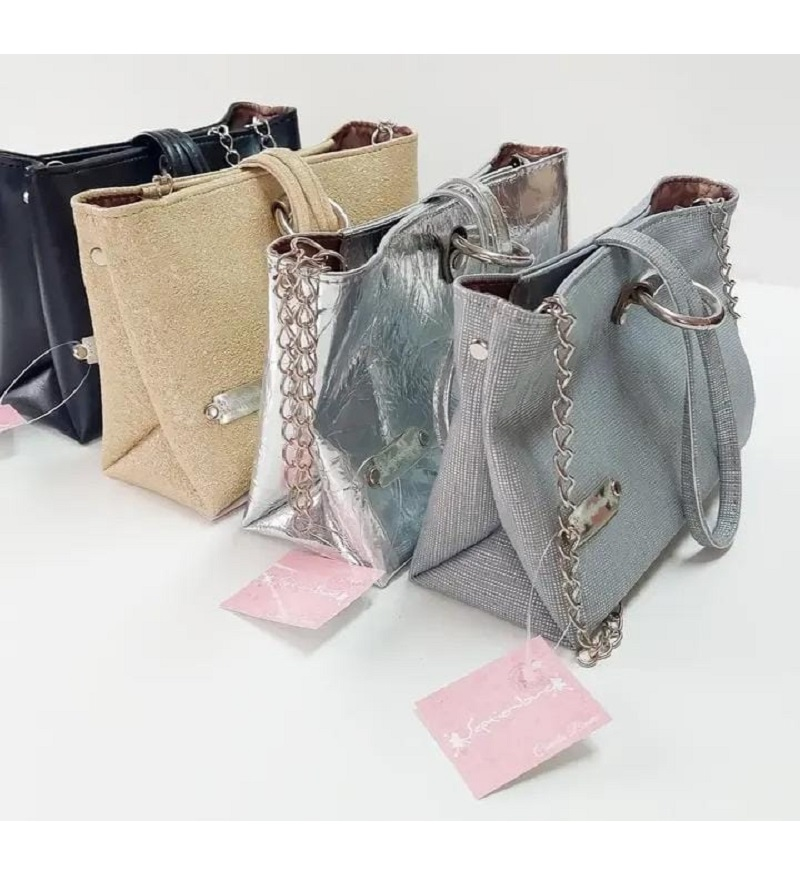
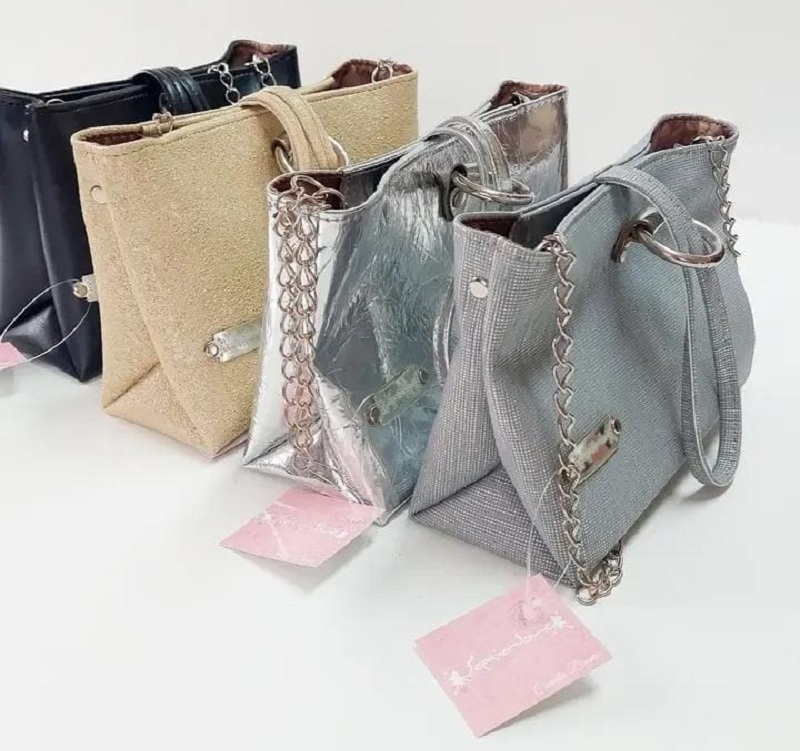
adjust images

diff --git a/catalog.js b/catalog.js
@@ -35,15 +35,14 @@ export function renderAllCatalogs() {
 }
 
 // ── Carruseles generales ──────────────────────────────────
-function _buildCarousel(id, productos) {
+function _buildCarousel(id, productos, useBlur = false) {
   if (productos.length === 0) return "";
 
-  // Agrupar en pares (2 por slide como el original)
   const pairs = _chunkArray(productos, 2);
 
   const items = pairs
     .map((pair, i) => {
-      const slides = pair.map((p) => _buildCard(p)).join("");
+      const slides = pair.map((p) => _buildCard(p, useBlur)).join("");
       return `
         <div class="carousel-item ${i === 0 ? "active" : ""}">
           <div class="slides">${slides}</div>
@@ -68,19 +67,23 @@ function _buildCarousel(id, productos) {
 }
 
 // ── Tarjeta individual ────────────────────────────────────
-function _buildCard(p) {
+function _buildCard(p, useBlur = false) {
   const infoExtra = p.infoExtra
     ? `<button class="info-btn">${p.infoExtraLabel || "ver más"}</button>
        <div class="info-div" style="display:none">${p.infoExtra.join("<br>")}</div>`
     : "";
 
+  const imgHtml = useBlur
+    ? `<div class="img-wrapper">
+         <div class="bg-blur" style="background-image: url('${p.imagen}')"></div>
+         <img src="${p.imagen}" alt="${p.nombre}" loading="lazy" />
+       </div>`
+    : `<img src="${p.imagen}" alt="${p.nombre}" loading="lazy" />`;
+
   if (p.tipo === "simple") {
     return `
       <div class="img-and-text">
-        <div class="img-wrapper">
-          <div class="bg-blur" style="background-image: url('${p.imagen}')"></div>
-          <img src="${p.imagen}" alt="${p.nombre}" loading="lazy" />
-        </div>
+        ${imgHtml}
         <p class="product-text">
           ${p.nombre}<br/>
           ${p.info}
@@ -106,7 +109,7 @@ function _buildCard(p) {
 
   return `
     <div class="img-and-text">
-      <img src="${p.imagen}" alt="${p.nombre}" loading="lazy" />
+      ${imgHtml}
       <p class="info-product">
         ${p.nombre}<br/>${p.info}
         ${infoExtra}
@@ -131,7 +134,10 @@ function _renderCarterasConSubcategorias(mountPoint) {
       <h5>Ver galería de imágenes de:</h5>
       <select id="carteras-select" name="carteras_select">
         ${subcats
-          .map((s, i) => `<option value="carousel-carteras-${i}">${s}</option>`)
+          .map(
+            (s, i) =>
+              `<option value="carousel-carteras-${i}">${s}</option>`
+          )
           .join("")}
       </select>
     </div>`;
@@ -139,10 +145,10 @@ function _renderCarterasConSubcategorias(mountPoint) {
   const carouselHtml = subcats
     .map((sub, i) => {
       const prods = PRODUCTOS.filter(
-        (p) => p.categoria === "carteras" && p.subcategoria === sub,
+        (p) => p.categoria === "carteras" && p.subcategoria === sub
       );
       const carouselId = `carousel-carteras-${i}`;
-      const html = _buildCarousel(carouselId, prods);
+      const html = _buildCarousel(carouselId, prods, true); // blur solo en carteras
       return `<div class="subcat-carousel" id="wrap-${carouselId}"
         style="display:${i === 0 ? "block" : "none"}">${html}</div>`;
     })
@@ -182,7 +188,7 @@ function _renderExtras(cat, section) {
                 <h5>${c.titulo}</h5>
                 <img src="${c.imagen}" alt="${c.titulo}" />
               </a>
-            </div>`,
+            </div>`
             )
             .join("")}
         </div>
@@ -248,8 +254,7 @@ function _bindAllWantButtons() {
     // Producto con inputs
     const typeInput = parent.querySelector(".type-product");
     const qtyInput = parent.querySelector(".number-product");
-    const productName =
-      parent.dataset.productName || parent.textContent.split("\n")[0].trim();
+    const productName = parent.dataset.productName || parent.textContent.split("\n")[0].trim();
 
     let detail = "";
     if (typeInput?.tagName === "SELECT") {

diff --git a/styles.css b/styles.css
@@ -451,17 +451,21 @@ form {
   padding: 0 10px;
 }
 .img-and-text p,
-.img-and-text div {
-  width: 280px;
+.img-and-text .info-product,
+.img-and-text .info-product-small,
+.img-and-text .product-input,
+.img-and-text .product-text {
+  width: 300px;
   max-width: 100%;
-  height: 140px;
+  height: auto;
   padding: 10px;
   position: relative;
   font-size: 16px;
   display: flex;
   flex-direction: column;
-  justify-content: space-between;
+  justify-content: center;
   align-items: center;
+  gap: 6px;
 }
 
 .carousel-control-prev-icon,
@@ -479,16 +483,19 @@ form {
 
 /*****************agregar pedido CAROUSEL*****************/
 .info-product {
-  height: 100px !important;
+  height: auto !important;
+  min-height: 60px;
   position: relative;
   overflow: visible;
 }
 .info-product-small {
-  height: 60px !important;
+  height: auto !important;
+  min-height: 40px;
   position: relative;
 }
 .product-input {
-  height: 180px !important;
+  height: auto !important;
+  min-height: 120px;
   position: relative;
 }
 .want-btn {
@@ -649,11 +656,12 @@ footer p {
 /* ── Imagen con fondo difuminado ── */
 .img-wrapper {
   position: relative;
-  width: 100%;
-  max-width: 280px;
-  height: 260px;
+  width: 300px;
+  max-width: 100%;
+  aspect-ratio: 1 / 1;
   overflow: hidden;
-  border-radius: 8px 8px 0 0;
+  border-radius: 8px;
+  flex-shrink: 0;
 }
 .img-wrapper .bg-blur {
   position: absolute;
@@ -678,13 +686,12 @@ footer p {
 
 /* Tablet grande */
 @media (max-width: 968px) and (min-width: 869px) {
-  .img-and-text p, .img-and-text div {
-    width: 260px;
-    height: 160px;
-    font-size: 15px;
-  }
-  .img-and-text img { max-width: 260px; }
-  .img-wrapper { max-width: 260px; }
+  .img-and-text p,
+  .img-and-text .info-product,
+  .img-and-text .info-product-small,
+  .img-and-text .product-input,
+  .img-and-text .product-text { width: 260px; font-size: 15px; }
+  .img-wrapper { width: 260px; }
   .info-div { padding: 5px 50px !important; }
 }
 
@@ -714,9 +721,12 @@ footer p {
   #logo { width: 70px; }
   .collage, .mirror { width: 50%; }
   .collage2, .mirror2 { display: none; }
-  .img-and-text p, .img-and-text div { width: 220px; height: 140px; font-size: 14px; }
-  .img-and-text img { max-width: 220px; }
-  .img-wrapper { max-width: 220px; height: 220px; }
+  .img-and-text p,
+  .img-and-text .info-product,
+  .img-and-text .info-product-small,
+  .img-and-text .product-input,
+  .img-and-text .product-text { width: 220px; font-size: 14px; }
+  .img-wrapper { width: 220px; }
   #my-order { padding: 20px; }
 }
 
@@ -734,17 +744,19 @@ footer p {
   .mirror, .collage2, .mirror2 { display: none; }
   .catalogo img { width: 100% !important; max-width: 250px; padding: 5px; }
 
-  /* Carrusel: una sola tarjeta centrada, ancho fluido */
   .slides { flex-direction: column; align-items: center; }
-  .img-and-text { width: 100%; max-width: 260px; }
-  .img-and-text p, .img-and-text div { width: 100%; max-width: 240px; height: auto; min-height: 100px; font-size: 13px; }
-  .img-and-text img { max-width: 100%; padding: 6px 0; }
-  .img-wrapper { max-width: 100%; width: 100%; height: 200px; }
+  .img-and-text { width: 100%; max-width: 280px; }
+  .img-and-text p,
+  .img-and-text .info-product,
+  .img-and-text .info-product-small,
+  .img-and-text .product-input,
+  .img-and-text .product-text { width: 100%; max-width: 260px; font-size: 13px; }
+  .img-wrapper { width: 100%; max-width: 280px; }
 
   .carta-img-div { flex-direction: column; }
   .download-btn { font-size: 10px; }
   .icon-img { width: 20px; }
-  .info-div { padding: 5px 35px !important; }
+  .info-div { padding: 5px 20px !important; }
   footer { padding: 10px; }
   .footer-div { flex-direction: column; justify-content: center; }
 }
